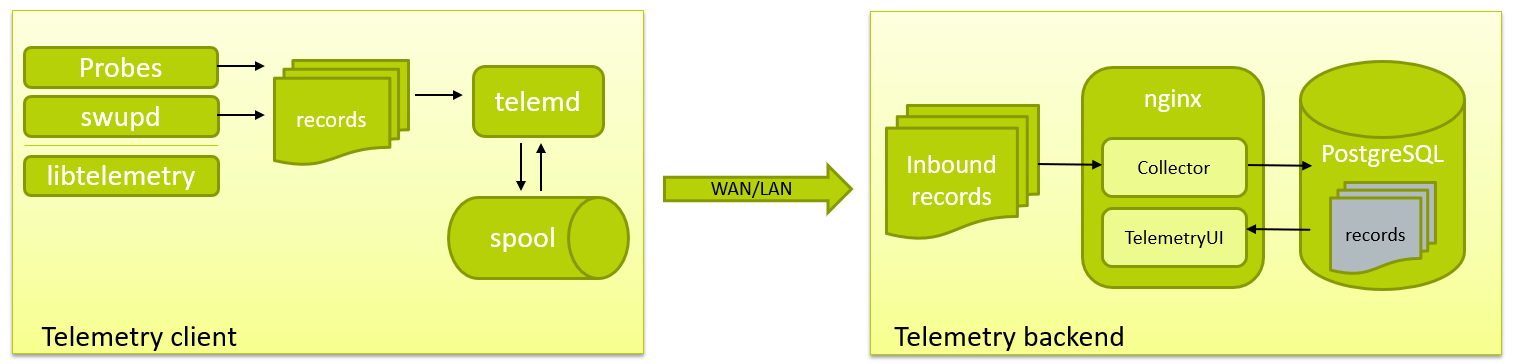
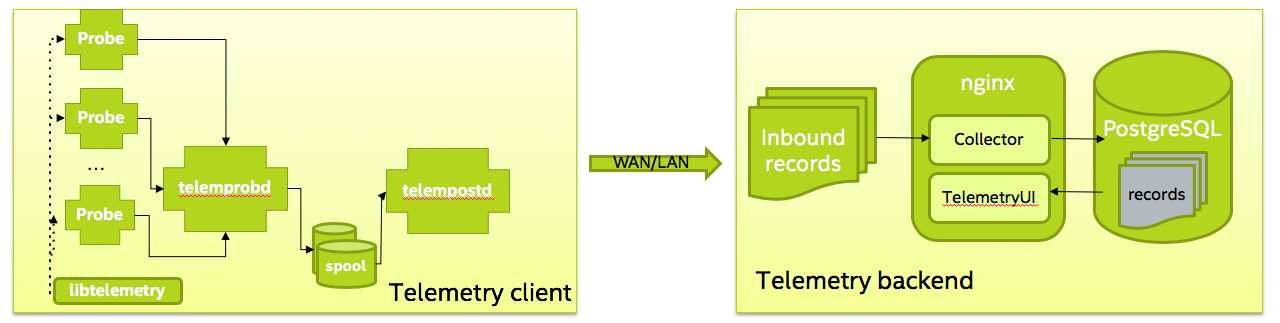
updates to relect telemetry client refactoring, changes telemd to telempostd & telemprobd

diff --git a/source/clear-linux/guides/maintenance/telemetry-enable.rst b/source/clear-linux/guides/maintenance/telemetry-enable.rst
@@ -3,7 +3,7 @@
 Enable and disable telemetry in Clear Linux
 ###########################################
 
-|CLOSIA| includes a telemetry solution as part of the OS that records events
+|CL| includes a telemetry solution as part of the OS that records events
 of interest and reports them back to the development team via the telemetrics
 daemon, **telemd**. This functionality is maintained in the
 **telemetrics** software bundle.
@@ -21,7 +21,7 @@ Install the telemetry software bundle
 *************************************
 
 During the initial installation of |CL|, you are requested to join the
-stability enhancement program and allow |CLOSIA| to collect anonymous reports
+stability enhancement program and allow |CL| to collect anonymous reports
 to improve system stability. If you choose not to join this program, then the
 telemetry software bundle is not added to your system.
 
@@ -36,7 +36,7 @@ This adds the telemetrics-client to your system and you will automatically
 opt-in for the service.
 
 Enable Telemetry
-****************
+*****************
 
 To start telemetry on your system, run the following command:
 
@@ -44,7 +44,7 @@ To start telemetry on your system, run the following command:
 
 	sudo telemctl start
 
-This enables and starts the :command:`telemd` daemon and your system will
+This enables and starts the :command:`telemprobd` and :command:`telempostd` daemons and your system will
 begin to send telemetry data to the server defined in the file
 :file:`/etc/telemetrics/telemetrics.conf`. If this file does not exist, the
 :command:`telemd` daemon will use the file
@@ -53,7 +53,7 @@ begin to send telemetry data to the server defined in the file
 Disable Telemetry
 *****************
 
-To disable the telemetry daemon, run the following command:
+To disable both of the telemetry daemons, run the following command:
 
 .. code-block:: bash
 

diff --git a/source/clear-linux/concepts/telemetry-about.rst b/source/clear-linux/concepts/telemetry-about.rst
@@ -3,7 +3,7 @@
 Telemetrics
 ###########
 
-One of the key features of |CLOSIA| is telemetry, which is used to
+One of the key features of |CL| is telemetry, which is used to
 monitor system health. Telemetry enables developers to observe and proactively
 address issues before end users are impacted.
 
@@ -47,11 +47,13 @@ Architecture
 The telemetry client provides the front end of a complete telemetrics solution
 and includes the following components:
 
-*	**telemd**, a daemon that prepares the records to send to a telemetrics server or
-	spools the records on disk in case it cannot successfully deliver them.
-*	Probes that collect specific types of data from the operating system.
+*	**telemprobd**, a daemon that prepares the telemetry records and spools them on disk prior to delivery
+* **telempostd**, a daemon that takes the records, verifies and then sends to the telemetry server or spools on disk in case the server is unavailable.
+
+*	**probes**, that collect specific types of data from the operating system.
 *	**libtelemetry**, that telemetrics probes use to create telemetrics records and
-	send them to the telemd daemon for further processing.
+	send them to the telemprobd daemon for further processing.
+
 
 The telemetry backend provides the server-side component of a complete telemetrics solution and
 consists of:
